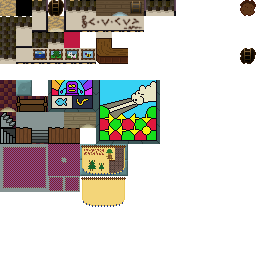
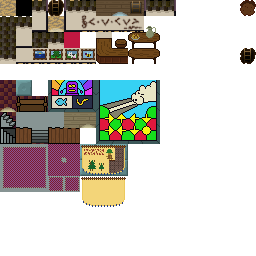
pamcake

Changed region(s): [[0.4375, 0.0938, 0.625, 0.25]]

diff --git a/src/app/sprite/types/fmn_sprite_pamcake.c b/src/app/sprite/types/fmn_sprite_pamcake.c
@@ -1,0 +1,207 @@
+#include "app/sprite/fmn_sprite.h"
+
+#define tileid0 sprite->bv[0]
+#define sleeping sprite->bv[1]
+#define stage sprite->bv[2]
+#define physics0 sprite->bv[3]
+#define animclock sprite->fv[0]
+#define doorx sprite->fv[1]
+#define doory sprite->fv[2]
+#define treex sprite->fv[3]
+#define treey sprite->fv[4]
+#define mode sprite->argv[0]
+
+#define PAMCAKE_MODE_HARVEST 0
+#define PAMCAKE_MODE_FEAST 1
+
+#define PAMCAKE_STAGE_BIDE 1 /* HARVEST... */
+#define PAMCAKE_STAGE_TO_TREE 2
+#define PAMCAKE_STAGE_REAP 3
+#define PAMCAKE_STAGE_TO_PUB 4
+#define PAMCAKE_STAGE_REACH 5 /* FEAST... */
+#define PAMCAKE_STAGE_CHEW 6
+
+#define PAMCAKE_WALK_SPEED 1.0f
+
+/* Sleep/wake.
+ */
+ 
+static void pamcake_sleep(struct fmn_sprite *sprite,uint8_t sleep) {
+  if (sleep) {
+    if (sleeping) return;
+    if (stage==PAMCAKE_STAGE_BIDE) return;
+    sleeping=1;
+    fmn_sprite_generate_zzz(sprite);
+  } else {
+    if (!sleeping) return;
+    sleeping=0;
+    animclock=999.0f;
+  }
+}
+
+/* Walk. Returns nonzero if continuing, or zero if we're there.
+ * Designer must ensure that the tree and door points are reachable by an L path.
+ */
+ 
+static uint8_t pamcake_walk(struct fmn_sprite *sprite,float dstx,float dsty,float elapsed) {
+  uint8_t result=0;
+  if (dstx<sprite->x) {
+    sprite->xform&=~FMN_XFORM_XREV;
+    if ((sprite->x-=PAMCAKE_WALK_SPEED*elapsed)<=dstx) {
+      sprite->x=dstx;
+    } else result=1;
+  } else if (dstx>sprite->x) {
+    sprite->xform|=FMN_XFORM_XREV;
+    if ((sprite->x+=PAMCAKE_WALK_SPEED*elapsed)>=dstx) {
+      sprite->x=dstx;
+    } else result=1;
+  }
+  if (dsty<sprite->y) {
+    if ((sprite->y-=PAMCAKE_WALK_SPEED*elapsed)<=dsty) {
+      sprite->y=dsty;
+    } else result=1;
+  } else if (dsty>sprite->y) {
+    if ((sprite->y+=PAMCAKE_WALK_SPEED*elapsed)>=dsty) {
+      sprite->y=dsty;
+    } else result=1;
+  }
+  return result;
+}
+
+/* Update.
+ */
+ 
+static void _pamcake_update(struct fmn_sprite *sprite,float elapsed) {
+  if (sleeping) {
+    sprite->tileid=tileid0+((mode==PAMCAKE_MODE_HARVEST)?0x04:0x13);
+    animclock=0.0f;
+    return;
+  }
+  animclock+=elapsed;
+  switch (stage) {
+    case PAMCAKE_STAGE_BIDE: {
+        if (animclock>=4.0f) {
+          animclock=0.0f;
+          stage=PAMCAKE_STAGE_TO_TREE;
+          sprite->style=FMN_SPRITE_STYLE_TILE;
+          sprite->physics=physics0;
+        }
+      } break;
+    case PAMCAKE_STAGE_TO_TREE: {
+        if (animclock>=0.5f) animclock=0.0f;
+        else if (animclock>=0.25f) sprite->tileid=tileid0+0x01;
+        else sprite->tileid=tileid0;
+        if (!pamcake_walk(sprite,treex,treey,elapsed)) {
+          animclock=0.0f;
+          stage=PAMCAKE_STAGE_REAP;
+          //TODO Sound effect and pitcher content indicator?
+        }
+      } break;
+    case PAMCAKE_STAGE_REAP: {
+        if (animclock>=2.0f) {
+          stage=PAMCAKE_STAGE_TO_PUB;
+          animclock=0.0f;
+        } else if (((int)(animclock*4.0f))&1) sprite->tileid=tileid0+0x03;
+        else sprite->tileid=tileid0+0x02;
+      } break;
+    case PAMCAKE_STAGE_TO_PUB: {
+        if (animclock>=0.5f) animclock=0.0f;
+        else if (animclock>=0.25f) sprite->tileid=tileid0+0x01;
+        else sprite->tileid=tileid0;
+        if (!pamcake_walk(sprite,doorx,doory,elapsed)) {
+          animclock=0.0f;
+          stage=PAMCAKE_STAGE_BIDE;
+          sprite->style=FMN_SPRITE_STYLE_HIDDEN;
+          sprite->physics=0;
+        }
+      } break;
+    case PAMCAKE_STAGE_REACH: {
+        sprite->tileid=tileid0+0x10;
+        if (animclock>=0.70f) {
+          stage=PAMCAKE_STAGE_CHEW;
+          animclock=0.0f;
+        }
+      } break;
+    case PAMCAKE_STAGE_CHEW: {
+        sprite->tileid=tileid0+((((int)(animclock*6.0f))&1)?0x11:0x12);
+        if (animclock>=2.0f) {
+          stage=PAMCAKE_STAGE_REACH;
+          animclock=0.0f;
+        }
+      } break;
+  }
+}
+
+/* Interact.
+ */
+ 
+static int16_t _pamcake_interact(struct fmn_sprite *sprite,uint8_t itemid,uint8_t qualifier) {
+  switch (itemid) {
+    case FMN_ITEM_WAND: switch (qualifier) {
+        case FMN_SPELLID_LULLABYE: pamcake_sleep(sprite,1); break;
+        case FMN_SPELLID_REVEILLE: pamcake_sleep(sprite,0); break;
+      } break;
+    case FMN_ITEM_BELL: pamcake_sleep(sprite,0); break;
+  }
+  return 0;
+}
+
+/* Find control points.
+ * Whereever she starts initially is the tree.
+ * Nearest door is the one we'll use.
+ */
+ 
+static void pamcake_find_control_points(struct fmn_sprite *sprite) {
+  treex=sprite->x;
+  treey=sprite->y;
+  doorx=sprite->x;
+  doory=sprite->y;
+  float bestdistance=999.0f;
+  const struct fmn_door *door=fmn_global.doorv;
+  int i=fmn_global.doorc;
+  for (;i-->0;door++) {
+    if (!door->mapid||door->extra) continue; // plain old doors only
+    float x=door->x+0.5f,y=door->y+0.5f;
+    float dx=x-sprite->x; if (dx<0.0f) dx=-dx;
+    float dy=y-sprite->y; if (dy<0.0f) dy=-dy;
+    float distance=dx+dy;
+    if (distance>=bestdistance) continue;
+    doorx=x;
+    doory=y;
+    bestdistance=distance;
+  }
+}
+
+/* Init.
+ */
+ 
+static void _pamcake_init(struct fmn_sprite *sprite) {
+  tileid0=sprite->tileid;
+  physics0=sprite->physics;
+  switch (mode) {
+    case PAMCAKE_MODE_HARVEST: {
+        sprite->physics=0;
+        sprite->style=FMN_SPRITE_STYLE_HIDDEN;
+        pamcake_find_control_points(sprite);
+        sprite->x=doorx;
+        sprite->y=doory;
+        stage=PAMCAKE_STAGE_BIDE;
+      } break;
+    case PAMCAKE_MODE_FEAST: {
+        sprite->tileid=tileid0+0x10;
+        sprite->x+=6.0f/16.0f;
+        sprite->y-=2.0f/16.0f;
+        sprite->physics&=~FMN_PHYSICS_SOLID; // she overlaps the table, it's fine.
+        stage=PAMCAKE_STAGE_REACH;
+      } break;
+  }
+}
+
+/* Type definition.
+ */
+ 
+const struct fmn_sprite_controller fmn_sprite_controller_pamcake={
+  .init=_pamcake_init,
+  .update=_pamcake_update,
+  .interact=_pamcake_interact,
+};

diff --git a/src/app/sprite/types/fmn_sprite_cow.c b/src/app/sprite/types/fmn_sprite_cow.c
@@ -1,11 +1,25 @@
 #include "app/sprite/fmn_sprite.h"
 
+#define COW_BELL_TIME 0.75f
+#define COW_MOO_TIME 0.5f
+
 #define buttsprite ((struct fmn_sprite*)sprite->pv[0])
 
 #define tileid0 sprite->bv[0] /* for both sprites */
 #define sleeping sprite->bv[1] /* for both sprites */
 #define ishead sprite->bv[2] /* head=1 butt=0 */
+#define bellcount sprite->bv[3] /* head */
 #define animclock sprite->fv[0] /* for both sprites */
+#define belltimer sprite->fv[1] /* head */
+#define mootime sprite->fv[2] /* head */
+
+/* Moo.
+ */
+ 
+static void cow_moo(struct fmn_sprite *sprite,uint8_t bellc) {
+  mootime=COW_MOO_TIME;
+  fmn_sound_effect(FMN_SFX_MOO);
+}
 
 /* Update.
  */
@@ -14,11 +28,26 @@ static void _cow_update(struct fmn_sprite *sprite,float elapsed) {
   if (sleeping) {
     sprite->tileid=tileid0+0x21;
   } else {
-    animclock+=elapsed;
-    if (animclock>=6.0f) animclock-=10.0f; // total period
-         if (animclock< 5.0f) sprite->tileid=tileid0; // staring into space
-    else if (animclock< 5.5f) sprite->tileid=tileid0+0x20; // mouthful o grass
-    else                      sprite->tileid=tileid0+0x10; // chomp
+    if (mootime>=0.0f) {
+      mootime-=elapsed;
+      sprite->tileid=tileid0+0x96; // moo was a late add
+      animclock=0.0f;
+    } else {
+      animclock+=elapsed;
+      if (animclock>=6.0f) animclock-=10.0f; // total period
+           if (animclock< 5.0f) sprite->tileid=tileid0; // staring into space
+      else if (animclock< 5.5f) sprite->tileid=tileid0+0x20; // mouthful o grass
+      else                      sprite->tileid=tileid0+0x10; // chomp
+    }
+    
+    if (belltimer>0.0f) {
+      if ((belltimer-=elapsed)<=0.0f) {
+        belltimer=0.0f;
+        uint8_t c=bellcount;
+        bellcount=0;
+        cow_moo(sprite,c);
+      }
+    }
   }
 }
 
@@ -68,7 +97,16 @@ static int16_t _cow_interact(struct fmn_sprite *sprite,uint8_t itemid,uint8_t qu
         case FMN_SPELLID_REVEILLE: sleeping=0; break;
         case FMN_SPELLID_LULLABYE: if (!sleeping) { sleeping=1; if (ishead) fmn_sprite_generate_zzz(sprite); } break;
       } break;
-    case FMN_ITEM_BELL: sleeping=0; break;
+    case FMN_ITEM_BELL: {
+        if (sleeping) {
+          sleeping=0;
+          bellcount=0;
+          belltimer=0.0f;
+        } else if (ishead) {
+          bellcount++;
+          belltimer=COW_BELL_TIME;
+        }
+      } break;
   }
   return 0;
 }

diff --git a/src/app/sprite/fmn_sprite.h b/src/app/sprite/fmn_sprite.h
@@ -148,6 +148,7 @@ void fmn_sprite_kill(struct fmn_sprite *sprite);
 #define FMN_SPRCTL_scoreboard    44
 #define FMN_SPRCTL_trickfloor    45
 #define FMN_SPRCTL_tree          46
+#define FMN_SPRCTL_pamcake       47
 
 #define FMN_FOR_EACH_SPRCTL \
   _(dummy) \
@@ -196,7 +197,8 @@ void fmn_sprite_kill(struct fmn_sprite *sprite);
   _(losthat) \
   _(scoreboard) \
   _(trickfloor) \
-  _(tree)
+  _(tree) \
+  _(pamcake)
   
 struct fmn_sprite_controller {
   void (*init)(struct fmn_sprite *sprite);

diff --git a/README.md b/README.md
@@ -13,35 +13,17 @@ And tentatively aiming for full release 29 September 2023, the first full moon o
 
 ### April
 
-- [x] macos: Bring up the violin, second beat, it quits spontaneously. The heck? ...underallocated vertex buffer in fmn_gl2_violin.c
-- [x] web: Handle gamepad hats. eg Black-on-black gamepad on the MacBook.
 - [ ] Graphics touch-up.
 - - [ ] Village interiors
 - - [ ] Village exterior
-- [x] Bring web back up to date with bigpc.
-- - [x] Sound effects quiet and muffled after rewriting the build tools. (in particular, fm range env?)
-- - [x] Hat incorrectly shows a quantity.
-- - [x] Hat not rendered.
-- - [x] Earthquake shake screen.
-- - [x] Snowglobe action not rendered.
-- - [x] Sound effects:
-- - - [x] Earthquake
-- - - [x] Push block
-- - - [x] Firenozzle
-- - - [x] Toss
-- - - [x] Spit
-- - [x] Whoa nelly, we're not graceful about sound-not-found...
-- - - It's not sound-not-found. We're picking up sound resources with the wrong qualifier.
-- - [x] Missing instruments (at least: 0, 29, 30). What's that zero? Violin?
-- - - The zero hasn't come up again, and I played thru every song, and fiddled with the fiddle... weird.
-- - [x] Hello menu.
-- - - [x] Reset when torn down.
-- - [x] Floorfire, we want to render only on vacant tiles now.
-- - [x] What happened to the trickfloor gravity? Not seeing it in Web. ...my modff was not returning!
-- - [x] Victory: 16 items, not 14.
-- - [x] End music when werewolf dies.
 - [ ] Can we get some "oooweeeeooo" when the lambda block is floating?
-- [x] Did I break werewolf's Hadouken-charge animation when rewriting his controller? ...yes, it's broken in both native and web
+- [ ] Werewolf sounds:
+- - [ ] Growl
+- - [ ] Bark
+- - [ ] Hadouken
+- [x] cow: Moo after hero rings the bell.
+- [x] Demonstrate sap. Make a lady tap a tree then pour it on pancakes.
+- [ ] Draw a door.
 
 ### May
 
